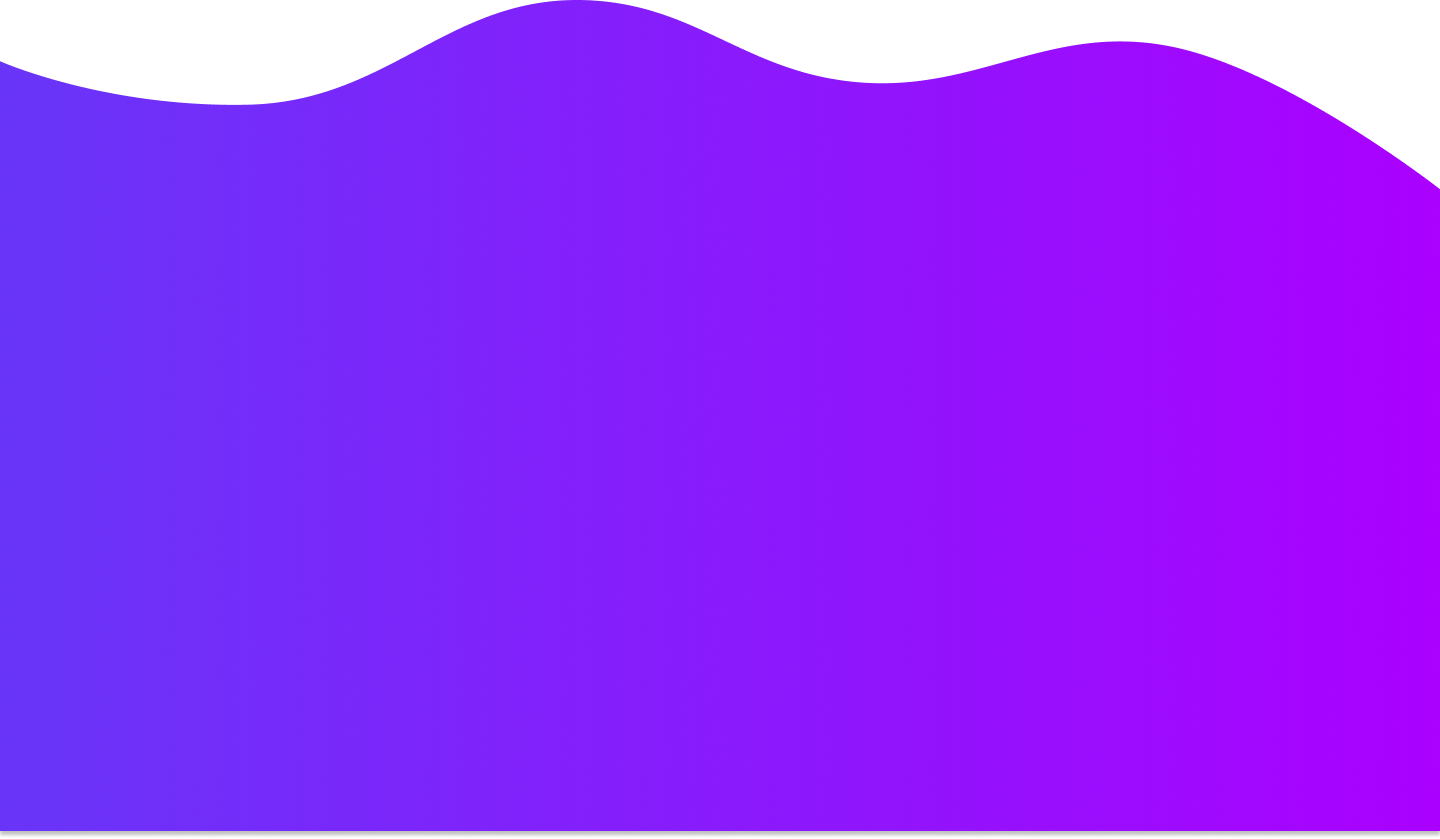
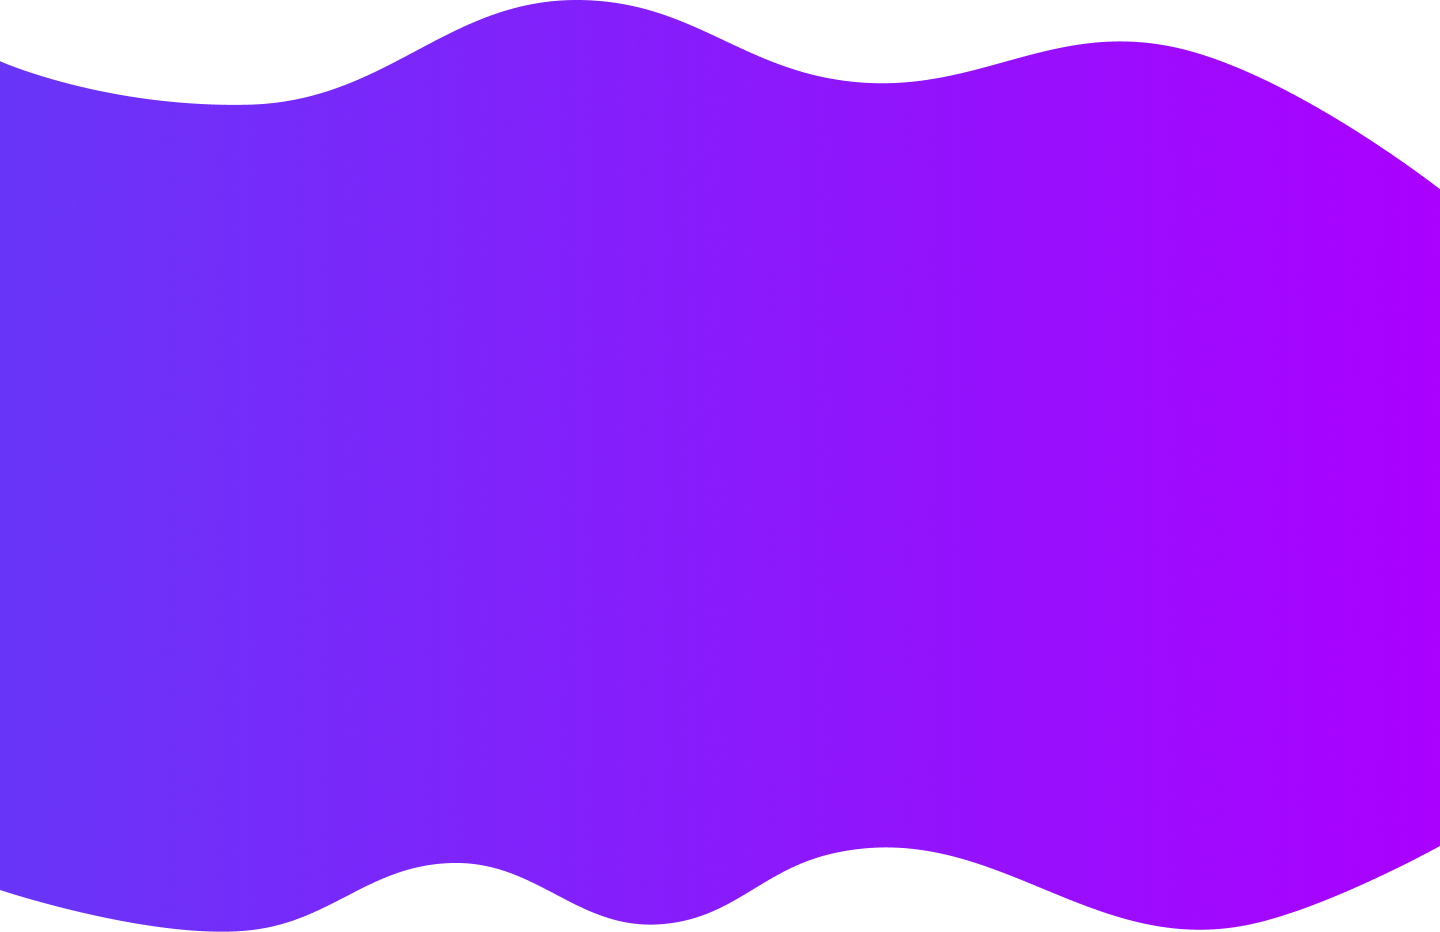
Testimonais

diff --git a/src/components/Testimonials/index.js b/src/components/Testimonials/index.js
@@ -1,0 +1,95 @@
+import {
+  CarouselProvider,
+  Slider,
+  Slide,
+  ButtonBack,
+  ButtonNext
+} from "pure-react-carousel";
+import "pure-react-carousel/dist/react-carousel.es.css";
+import Quotemark from 'assets/images/quote_mark.svg'
+import './styles.scss'
+
+const testimonialsData = [
+  {
+    name: "Peter",
+    employee: "co-author of National German Exam and teacher with 30 years’ experience",
+    profile_image: 'https://kleo-website-assets.s3.us-east-2.amazonaws.com/peter.jpg',
+    feedback: "It’s as close as you can get to having a teacher in the classroom giving you feedback.",
+  },
+  {
+    name: "Jessie",
+    employee: "mom and entrepreneur",
+    profile_image: 'https://kleo-website-assets.s3.us-east-2.amazonaws.com/jessie.jpg',
+    feedback: "Love, love, love the interactive element of immediate feedback and practicing like you're with a live coach . . . or a live friend.",
+  },
+  {
+    name: "Anonymous",
+    employee: "tester in the UK",
+    profile_image: 'https://kleo-website-assets.s3.us-east-2.amazonaws.com/shelly.jpg',
+    feedback: "That was sick...The interactive experience, particularly the videos made it easier to learn. Felt like you're talking with a person rather than just using an app.",
+  },
+  {
+    name: "Shelly",
+    employee: "long-time Duolingo user",
+    profile_image: 'https://kleo-website-assets.s3.us-east-2.amazonaws.com/shelly.jpg',
+    feedback: "I’ve been doing Duolingo for 4 years and I’ve liked it a lot, so, honestly, I was skeptical of another language App. However, I prefer Kleo's format - I like interacting with real people, and it seems to get to the heart of what’s important to know.",
+  },
+  {
+    name: "Nimrod",
+    employee: "newly interested in learning Spanish",
+    profile_image: 'https://kleo-website-assets.s3.us-east-2.amazonaws.com/shelly.jpg',
+    feedback: "Last week I went to the farmers market and there was a lady selling tamales. The app kicked in and I told her quiero tamales por favor. Man, she got so happy she spoke Spanish to me as if I knew what she was saying.",
+  },
+  {
+    name: "Kali",
+    employee: "regular language app user",
+    profile_image: 'https://kleo-website-assets.s3.us-east-2.amazonaws.com/kali.jpg',
+    feedback: "I like the interaction much more than Babbel and Rosetta Stone. Very engaging. Love love!!",
+  }
+]
+
+export default function Testimonials() {
+  return (
+    <div className="testimonials-wrapper">
+      <div className="dash-title">
+        <div className="dash" />
+        <div className="title">Testimonials</div>
+        <div className="dash" />
+      </div>
+      <CarouselProvider
+        naturalSlideWidth={630}
+        naturalSlideHeight={270}
+        totalSlides={testimonialsData.length}
+        visibleSlides={1}
+        currentSlide={0}
+        className="td-carousel"
+      >
+        <Slider onFocus={(e) => console.log(e)}>
+          {testimonialsData.map((td, index) => 
+            <Slide index={index} key={index}>
+              <div className="quote">
+                <img src={Quotemark} alt="Quote" />
+              </div>
+              <div className="info">
+                <div className="feedback">
+                  {td.feedback}
+                </div>
+                <div className="profile">
+                  <img src={td.profile_image} alt={td.name} />
+                  <div className="profile_text">
+                    <div className="name">{td.name}</div>
+                    <div className="employee">{td.employee}</div>
+                  </div>
+                </div>
+              </div>
+            </Slide>
+          )}
+        </Slider>
+        <div className="first-mask" />
+        <div className="last-mask" />
+        <ButtonBack className="slider-back-white"></ButtonBack>
+        <ButtonNext className="slider-next-white"></ButtonNext>
+      </CarouselProvider>
+    </div>
+  )
+}

diff --git a/src/components/Testimonials/styles.scss b/src/components/Testimonials/styles.scss
@@ -1,0 +1,120 @@
+.testimonials-wrapper {
+  width: 100%;
+  height: auto;
+  background-image: url('../../assets/images/testimonial-back-pc.png');
+  background-repeat: no-repeat;
+  background-size: 100% 100%;
+  padding-top: 278px;
+  padding-bottom: 234px;
+  margin-top: -200px;
+  .dash-title {
+    display: flex;
+    justify-content: center;
+    align-items: center;
+    position: relative;
+    .dash {
+      width: 100px;
+      height: 2px;
+      background: linear-gradient(90deg, #6835F8 0%, #AA00FF 100%);;
+    }
+    .title {
+      font-weight: 700;
+      font-size: 42px;
+      line-height: 57.2px;
+      color: #050C28;
+      position: relative;
+      margin: 0 50px;
+    }
+  }
+  .td-carousel {
+    position: relative;
+    .carousel__slider {
+      padding-left: 28%;
+      padding-right: 28%;
+    }
+    .carousel__inner-slide {
+      width: calc(100% - 90px);
+      height: calc(100% - 30px);
+      left: 15px;
+      top: 15px;
+      padding: 30px;
+      text-align: left;
+      background: white;
+      display: flex;
+      flex-direction: column;
+      .info {
+        display: flex;
+        flex-direction: column;
+        flex-grow: 1;
+        justify-content: space-around;
+        .feedback {
+          margin-top: 20px;
+          color: #050C28;
+          font-size: 16px;
+          line-height: 26px;
+        }
+        .profile {
+          display: flex;
+          img {
+            width: 50px;
+            height: 50px;
+            border-radius: 25px;
+          }
+          .profile_text {
+            margin-left: 20px;
+            .name {
+              line-height: 26px;
+              font-weight: bold; 
+            }
+            .employee {
+              font-size: 14px;
+              line-height: 18px;
+              opacity: 0.7;
+              margin-top: 5px;
+            }
+          }
+        }
+      }
+    }
+
+    .slider-back-white {
+      width: 50px;
+      height: 50px;
+      background-image: url('../../assets/images/slider-arrow-left-black.svg');
+      background-color: transparent;
+      padding: 0;
+      border: 0;
+      position: absolute;
+      top: calc(50% - 25px);
+      left: 6%;
+    }
+    .slider-next-white {
+      width: 50px;
+      height: 50px;
+      background-image: url('../../assets/images/slider-arrow-right-black.svg');
+      background-color: transparent;
+      padding: 0;
+      border: 0;
+      position: absolute;
+      top: calc(50% - 25px);
+      right: 6%;
+    }
+    .first-mask {
+      position: absolute;
+      top: 15px;
+      left: 0;
+      width: 22.5%;
+      height: 100%;
+      background: linear-gradient(270deg, rgba(249, 249, 249, 0) 0%, #F9F9F9 31.77%);
+    }
+    .last-mask {
+      position: absolute;
+      top: 15px;
+      right: 0;
+      width: 22.5%;
+      height: 100%;
+      background: linear-gradient(270deg, rgba(249, 249, 249, 0) 0%, #F9F9F9 31.77%);
+      transform: matrix(-1, 0, 0, 1, 0, 0);
+    }
+  }
+}

diff --git a/src/components/Lessons/styles.scss b/src/components/Lessons/styles.scss
@@ -6,7 +6,7 @@
   background-repeat: no-repeat;
   background-size: 100% 100%;
   padding-top: 178px;
-  padding-bottom: 106px;
+  padding-bottom: 206px;
   .dash-title {
     display: flex;
     justify-content: center;
@@ -28,6 +28,7 @@
   }
   .lesson-carousel {    
     margin-top: 50px;
+    position: relative;
     /* gives us the illusion of a "centered" slide */
     .carousel__slider {
       padding-left: 12.5%;
@@ -47,6 +48,8 @@
         height: auto;
         position: relative;
         .img {
+          width: 100%;
+          height: 100%;
           border-radius: 20px 20px 0 0;
         }
         .mark {

diff --git a/src/components/Lessons/index.js b/src/components/Lessons/index.js
@@ -1,4 +1,3 @@
-import "react-responsive-carousel/lib/styles/carousel.min.css"; // requires a loader
 import {
   CarouselProvider,
   Slider,
@@ -9,7 +8,7 @@ import {
 import "pure-react-carousel/dist/react-carousel.es.css";
 
 import './styles.scss'
-import { useEffect, useState, useLayoutEffect, useMemo, useContext } from "react";
+import { useState, useLayoutEffect, useMemo } from "react";
 import LessonMark from 'assets/images/lesson-mark.png';
 export default function Lessons() {
   const lessons = [

diff --git a/src/pages/Home/index.js b/src/pages/Home/index.js
@@ -5,6 +5,7 @@ import AppleImage from 'assets/images/apple.png'
 import './styles.scss'
 import HowTo from 'components/HowTo';
 import Lessons from 'components/Lessons';
+import Testimonials from 'components/Testimonials';
 
 function Home() {
   return (
@@ -36,6 +37,7 @@ function Home() {
       </div>
       <HowTo />
       <Lessons />
+      <Testimonials />
     </div>
   )
 }
